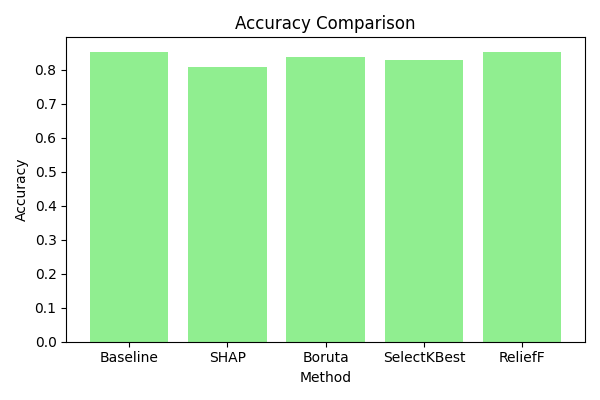
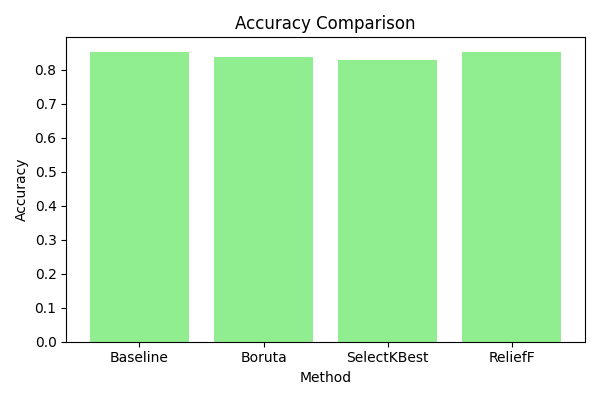
(#7) update comparison

Changed region(s): [[0.51, 0.12, 0.81, 0.93], [0.15, 0.12, 0.48, 0.93], [0.81, 0.87, 0.9, 0.93]]

diff --git a/src/comparison.py b/src/comparison.py
@@ -23,7 +23,7 @@ def compare_feature_selectors(data, target_column, n_features=10):
     """
     Compares various feature selection methods on the given dataset:
       1) Baseline (no feature selection)
-      2) SHAP-based (EnhancedFeatureSelector)
+      2) FeatureFlex-based (EnhancedFeatureSelector)
       3) Boruta
       4) SelectKBest
       5) ReliefF (scikit-rebate)
@@ -78,9 +78,9 @@ def compare_feature_selectors(data, target_column, n_features=10):
     results["Baseline"] = {"AUC": baseline_auc, "Accuracy": baseline_acc}
 
     # ---------------------------
-    # SHAP-based
+    # FeatureFlex-based (EnhancedFeatureSelector)
     # ---------------------------
-    print("Testing SHAP-based feature selection...")
+    print("Testing FeatureFlex-based (EnhancedFeatureSelector) feature selection...")
     model_opt_selector = EnhancedFeatureSelector(input_dim=X_train.shape[1])
     # top_features = model_opt_selector.select_via_shap(X_train, y_train, n_features=n_features)
     top_features = model_opt_selector.select_via_model_optimizer(X_train, y_train, n_features=n_features)
